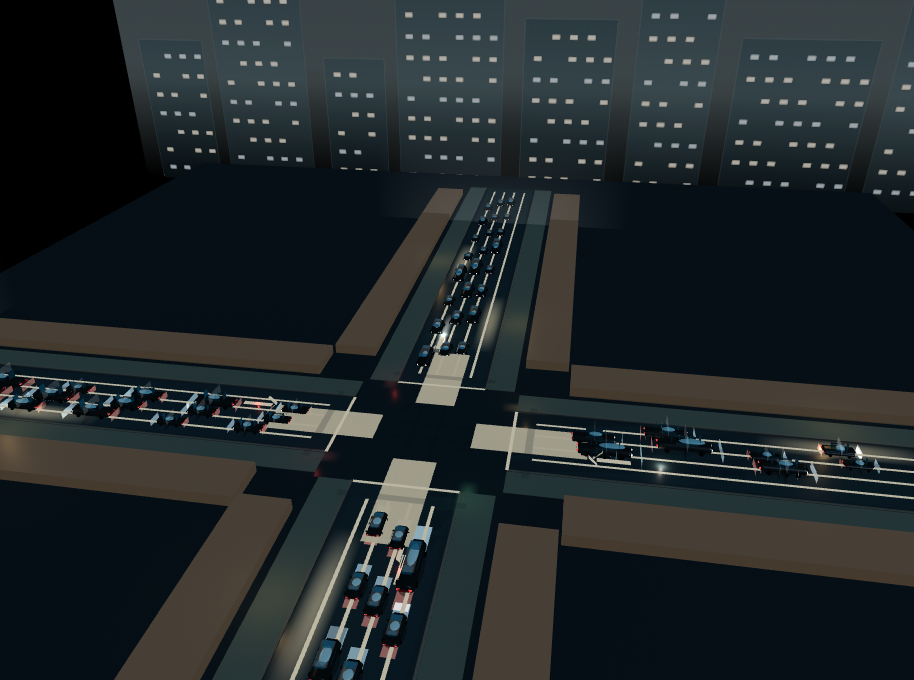
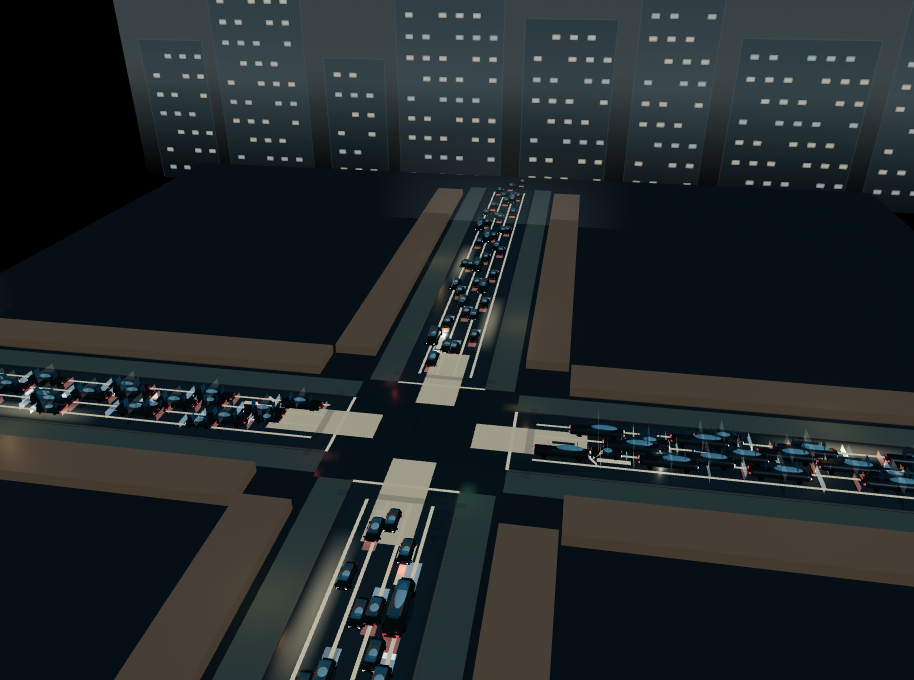
feat(web): wire simulation frame into r3f viewport

diff --git a/apps/web/components/DashboardShell.test.tsx b/apps/web/components/DashboardShell.test.tsx
@@ -15,6 +15,20 @@ const r3fCameraMock = vi.hoisted(() => ({
   far: 0
 }));
 const r3fInvalidateMock = vi.hoisted(() => vi.fn());
+const dashboardRouteApiMock = vi.hoisted(() => ({
+  analyzeUpload: vi.fn(),
+  askQuestion: vi.fn(),
+  generateReport: vi.fn(),
+  getAnalysisJob: vi.fn(),
+  getEvents: vi.fn(),
+  getFixtures: vi.fn(),
+  getIntersectionStatus: vi.fn(),
+  getRuntimeReadiness: vi.fn(),
+  getSimulationFrame: vi.fn(),
+  ingestFixture: vi.fn(),
+  recommendSignal: vi.fn(),
+  simulateSignal: vi.fn()
+}));
 
 vi.mock("@react-three/fiber", () => ({
   Canvas: ({ children }: { children?: ReactNode }) => (
@@ -56,7 +70,9 @@ vi.mock("./r3f/TrafficDensityLayer", async (importActual) => {
 vi.mock("./r3f/WeatherAndAtmosphere", () => ({
   WeatherAndAtmosphere: () => null
 }));
+vi.mock("../lib/api", () => dashboardRouteApiMock);
 
+import { DashboardRoute } from "./DashboardRoute";
 import { DashboardShell } from "./DashboardShell";
 import {
   buildFixtureSceneSnapshot,
@@ -332,6 +348,7 @@ const runtimeReadiness: RuntimeReadiness = {
 
 afterEach(() => {
   cleanup();
+  vi.clearAllMocks();
   vi.restoreAllMocks();
   vi.unstubAllGlobals();
   vi.unstubAllEnvs();
@@ -346,6 +363,7 @@ function dashboardProps(overrides: Partial<Parameters<typeof DashboardShell>[0]>
     report,
     chat,
     runtimeReadiness,
+    simulationFrame: frameSnapshot,
     onAskQuestion: vi.fn(),
     onGenerateReport: vi.fn(),
     onRefreshRecommendation: vi.fn(),
@@ -389,7 +407,50 @@ function mockWebGLSupport(supported: boolean) {
   );
 }
 
+function mockDashboardRouteApi() {
+  dashboardRouteApiMock.getIntersectionStatus.mockResolvedValue(status);
+  dashboardRouteApiMock.getEvents.mockResolvedValue(events);
+  dashboardRouteApiMock.recommendSignal.mockResolvedValue(recommendation);
+  dashboardRouteApiMock.simulateSignal.mockResolvedValue(simulation);
+  dashboardRouteApiMock.generateReport.mockResolvedValue(report);
+  dashboardRouteApiMock.getFixtures.mockResolvedValue(fixtures);
+  dashboardRouteApiMock.getRuntimeReadiness.mockResolvedValue(runtimeReadiness);
+  dashboardRouteApiMock.getSimulationFrame.mockResolvedValue(frameSnapshot);
+}
+
 describe("DashboardShell", () => {
+  test("loads the dashboard with explicit fixture fallback when the frame route is missing", async () => {
+    vi.stubEnv("NEXT_PUBLIC_R3F_SIMULATION_ENABLED", "true");
+    mockWebGLSupport(true);
+    mockDashboardRouteApi();
+    dashboardRouteApiMock.getSimulationFrame.mockRejectedValue(
+      new Error("API request failed: 404 /api/simulation/frame?scenario_id=emergency")
+    );
+
+    render(<DashboardRoute />);
+
+    const viewport = await screen.findByTestId("r3f-simulation-viewport");
+
+    expect(dashboardRouteApiMock.getSimulationFrame).toHaveBeenCalledWith("emergency");
+    expect(screen.queryByText("Dashboard API unavailable")).toBeNull();
+    expect(viewport.getAttribute("data-r3f-snapshot-source")).toBe("simulation_snapshot_fixture");
+    expect(viewport.getAttribute("data-r3f-frame-bound")).toBeNull();
+    expect(viewport.getAttribute("data-r3f-traffic-density-mode")).toBe("fixture_queues");
+  });
+
+  test("surfaces non-route simulation frame load errors", async () => {
+    mockDashboardRouteApi();
+    dashboardRouteApiMock.getSimulationFrame.mockRejectedValue(
+      new Error("API request failed: 500 /api/simulation/frame?scenario_id=emergency")
+    );
+
+    render(<DashboardRoute />);
+
+    expect(await screen.findByText("Dashboard API unavailable")).toBeTruthy();
+    expect(dashboardRouteApiMock.getSimulationFrame).toHaveBeenCalledWith("emergency");
+    expect(screen.getByText("API request failed: 500 /api/simulation/frame?scenario_id=emergency")).toBeTruthy();
+  });
+
   test("renders the B plus A spatial command cockpit structure", () => {
     const { container } = renderDashboard({ selectedScenarioId: "emergency" });
 
@@ -985,7 +1046,7 @@ describe("DashboardShell", () => {
     });
   });
 
-  test("mounts the browser-only R3F renderer when it is enabled and WebGL is supported", async () => {
+  test("mounts frame-backed browser-only R3F when it is enabled and WebGL is supported", async () => {
     vi.stubEnv("NEXT_PUBLIC_R3F_SIMULATION_ENABLED", "true");
     mockWebGLSupport(true);
 
@@ -1002,13 +1063,30 @@ describe("DashboardShell", () => {
     expect(viewport.getAttribute("data-r3f-renderer-mode")).toBe(STAGE5_RENDERER_MODE);
     expect(viewport.getAttribute("data-r3f-photoreal-stage")).toBe("5");
     expect(viewport.getAttribute("data-r3f-snapshot-source")).toBe("simulation_snapshot_fixture");
+    expect(viewport.getAttribute("data-r3f-frame-bound")).toBe("true");
+    expect(viewport.getAttribute("data-r3f-traffic-density-mode")).toBe("density_segments");
+    expect(
+      Number(viewport.getAttribute("data-r3f-visible-vehicle-count"))
+    ).toBeGreaterThan(0);
+    expect(viewport.getAttribute("data-r3f-glb-vehicle-count")).toBe("2");
+    expect(viewport.getAttribute("data-r3f-street-shadow-count")).toBe("2");
+    expect(viewport.getAttribute("data-r3f-vehicle-silhouette-part-count")).toBe("14");
+  });
+
+  test("uses explicit fixture queue fallback when the simulation frame is absent", async () => {
+    vi.stubEnv("NEXT_PUBLIC_R3F_SIMULATION_ENABLED", "true");
+    mockWebGLSupport(true);
+
+    renderDashboard({ simulationFrame: null });
+
+    const viewport = await screen.findByTestId("r3f-simulation-viewport");
+
+    expect(viewport.getAttribute("data-r3f-snapshot-source")).toBe("simulation_snapshot_fixture");
+    expect(viewport.getAttribute("data-r3f-frame-bound")).toBeNull();
     expect(viewport.getAttribute("data-r3f-traffic-density-mode")).toBe("fixture_queues");
     expect(
       Number(viewport.getAttribute("data-r3f-visible-vehicle-count"))
     ).toBeGreaterThanOrEqual(STAGE5_MIN_VISIBLE_VEHICLES);
-    expect(viewport.getAttribute("data-r3f-glb-vehicle-count")).toBe("2");
-    expect(viewport.getAttribute("data-r3f-street-shadow-count")).toBe("2");
-    expect(viewport.getAttribute("data-r3f-vehicle-silhouette-part-count")).toBe("14");
   });
 
   test("exposes Stage 3 corridor lengths in meters outside the canvas", async () => {

diff --git a/apps/web/components/DashboardRoute.tsx b/apps/web/components/DashboardRoute.tsx
@@ -12,10 +12,12 @@ import {
   getFixtures,
   getIntersectionStatus,
   getRuntimeReadiness,
+  getSimulationFrame,
   ingestFixture,
   recommendSignal,
   simulateSignal
 } from "../lib/api";
+import type { SimulationFrameSnapshot } from "../lib/simulationSnapshot";
 import type {
   AnalysisFixture,
   AnalysisJob,
@@ -41,6 +43,7 @@ type DashboardData = {
   events: TrafficEvent[];
   recommendation: Recommendation;
   simulation: SimulationComparison;
+  simulationFrame: SimulationFrameSnapshot | null;
   report: Report;
   chat: ChatResponse | null;
   fixtures: AnalysisFixture[];
@@ -63,7 +66,16 @@ export function DashboardRoute() {
 
   async function loadDashboard(scenarioId: ScenarioId) {
     try {
-      const [status, events, recommendation, simulation, report, fixtures, runtimeReadiness] =
+      const [
+        status,
+        events,
+        recommendation,
+        simulation,
+        report,
+        fixtures,
+        runtimeReadiness,
+        simulationFrame
+      ] =
         await Promise.all([
           getIntersectionStatus(scenarioId),
           getEvents(scenarioId),
@@ -71,7 +83,8 @@ export function DashboardRoute() {
           simulateSignal(scenarioId),
           generateReport(scenarioId),
           getFixtures(),
-          getRuntimeReadiness()
+          getRuntimeReadiness(),
+          loadSimulationFrame(scenarioId)
         ]);
 
       setData({
@@ -79,6 +92,7 @@ export function DashboardRoute() {
         events,
         recommendation,
         simulation,
+        simulationFrame,
         report,
         chat: null,
         fixtures,
@@ -183,6 +197,7 @@ export function DashboardRoute() {
       events={data.events}
       recommendation={data.recommendation}
       simulation={data.simulation}
+      simulationFrame={data.simulationFrame}
       report={data.report}
       chat={data.chat}
       fixtures={data.fixtures}
@@ -216,4 +231,22 @@ function formatDashboardError(error: string) {
     return "The API server is not reachable. Start the API service and try again.";
   }
   return error;
+}
+
+async function loadSimulationFrame(
+  scenarioId: ScenarioId
+): Promise<SimulationFrameSnapshot | null> {
+  try {
+    return await getSimulationFrame(scenarioId);
+  } catch (error) {
+    if (isSimulationFrameRouteMissingError(error)) return null;
+    throw error;
+  }
+}
+
+function isSimulationFrameRouteMissingError(error: unknown) {
+  return (
+    error instanceof Error &&
+    error.message.includes("API request failed: 404 /api/simulation/frame")
+  );
 }

diff --git a/apps/web/components/r3f/R3FSimulationViewport.tsx b/apps/web/components/r3f/R3FSimulationViewport.tsx
@@ -3,7 +3,7 @@
 import { useMemo } from "react";
 
 import type { SimulationViewportProps } from "../SimulationViewportFallback";
-import { buildFixtureSceneSnapshot } from "./buildSceneSnapshot";
+import { buildFixtureSceneSnapshot, buildSceneSnapshot } from "./buildSceneSnapshot";
 import { getCorridorLengthDataAttribute } from "./roadGeometry";
 import { SimulationCanvas } from "./SimulationCanvas";
 import {
@@ -20,12 +20,19 @@ export const STAGE5_RENDERER_MODE = "r3f_photoreal_stage5";
 export function R3FSimulationViewport({
   status,
   events,
-  simulation
+  simulation,
+  simulationFrame
 }: SimulationViewportProps) {
-  const sceneSnapshot = useMemo(
+  const frameSceneSnapshot = useMemo(
+    () => buildSceneSnapshot(simulationFrame),
+    [simulationFrame]
+  );
+  const fallbackSceneSnapshot = useMemo(
     () => buildFixtureSceneSnapshot({ queues: status.queues, events }),
     [events, status.queues]
   );
+  const frameBound = frameSceneSnapshot.source !== null;
+  const sceneSnapshot = frameBound ? frameSceneSnapshot : fallbackSceneSnapshot;
   const visibleVehicleCount = useMemo(() => {
     const renderPlan = buildTrafficDensityRenderPlan(sceneSnapshot);
 
@@ -41,6 +48,7 @@ export function R3FSimulationViewport({
       data-testid="r3f-simulation-viewport"
       data-r3f-simulation-ready="true"
       data-r3f-snapshot-source={sceneSnapshot.source ?? "none"}
+      data-r3f-frame-bound={frameBound ? "true" : undefined}
       data-r3f-renderer-mode={STAGE5_RENDERER_MODE}
       data-r3f-photoreal-stage="5"
       data-r3f-corridor-length-meters={corridorLengthMeters}

diff --git a/apps/web/components/DigitalTwin.tsx b/apps/web/components/DigitalTwin.tsx
@@ -3,6 +3,7 @@
 import { useState } from "react";
 
 import type { TrafficEvent, IntersectionStatus, RuntimeReadiness, SimulationComparison } from "../lib/types";
+import type { SimulationFrameSnapshot } from "../lib/simulationSnapshot";
 import type { Locale } from "../lib/i18n";
 import { copy } from "../lib/i18n";
 import { SimulationViewport } from "./SimulationViewport";
@@ -11,6 +12,7 @@ type DigitalTwinProps = {
   status: IntersectionStatus;
   events: TrafficEvent[];
   simulation: SimulationComparison;
+  simulationFrame: SimulationFrameSnapshot | null;
   runtimeReadiness: RuntimeReadiness;
   locale: Locale;
   onRunSimulation: () => Promise<void>;
@@ -20,6 +22,7 @@ export function DigitalTwin({
   status,
   events,
   simulation,
+  simulationFrame,
   runtimeReadiness,
   locale,
   onRunSimulation
@@ -78,6 +81,7 @@ export function DigitalTwin({
         status={status}
         events={events}
         simulation={simulation}
+        simulationFrame={simulationFrame}
         runtimeReadiness={runtimeReadiness}
         locale={locale}
       />

diff --git a/apps/web/components/DashboardShell.tsx b/apps/web/components/DashboardShell.tsx
@@ -21,6 +21,7 @@ import type {
   TrafficEvent,
   UploadAnalysisResult
 } from "../lib/types";
+import type { SimulationFrameSnapshot } from "../lib/simulationSnapshot";
 import type { Locale } from "../lib/i18n";
 import { copy } from "../lib/i18n";
 import { AnalysisIntakePanel } from "./AnalysisIntakePanel";
@@ -36,6 +37,7 @@ export type DashboardShellProps = {
   events: TrafficEvent[];
   recommendation: Recommendation;
   simulation: SimulationComparison;
+  simulationFrame: SimulationFrameSnapshot | null;
   report: Report;
   chat: ChatResponse | null;
   fixtures: AnalysisFixture[];
@@ -63,6 +65,7 @@ export function DashboardShell({
   events,
   recommendation,
   simulation,
+  simulationFrame,
   report,
   chat,
   fixtures,
@@ -320,6 +323,7 @@ export function DashboardShell({
             status={status}
             events={events}
             simulation={simulation}
+            simulationFrame={simulationFrame}
             runtimeReadiness={runtimeReadiness}
             locale={locale}
             onRunSimulation={onRunSimulation}

diff --git a/apps/web/components/SimulationViewportFallback.tsx b/apps/web/components/SimulationViewportFallback.tsx
@@ -10,6 +10,7 @@ import type {
   SimulationComparison,
   TrafficEvent
 } from "../lib/types";
+import type { SimulationFrameSnapshot } from "../lib/simulationSnapshot";
 import type { Locale } from "../lib/i18n";
 import { copy, formatDirection, formatEventType } from "../lib/i18n";
 
@@ -17,6 +18,7 @@ export type SimulationViewportProps = {
   status: IntersectionStatus;
   events: TrafficEvent[];
   simulation: SimulationComparison;
+  simulationFrame?: SimulationFrameSnapshot | null;
   runtimeReadiness: RuntimeReadiness;
   locale: Locale;
 };

diff --git a/docs/superpowers/plans/2026-06-16-r3f-photoreal-dashboard-simulation.md b/docs/superpowers/plans/2026-06-16-r3f-photoreal-dashboard-simulation.md
@@ -1343,7 +1343,7 @@ Expected: `git diff --check` passes and the `rg` command returns no stale Stage 
 
 ## Stage 6E: Asset Runtime Utilization, Compression, And Licensing
 
-**Goal:** Use more of the existing manifest-backed asset kit in the runtime scene, optimize payloads, and consolidate asset licensing evidence.
+**Goal:** Use more of the existing manifest-backed asset kit in the runtime scene, harden the human-view visual baseline beyond the current blockout-like canvas, optimize payloads, and consolidate asset licensing evidence.
 
 **Files:**
 - Modify: `apps/web/components/r3f/Stage5SceneAssets.tsx`
@@ -1369,6 +1369,21 @@ all existing facade/window material panels
 ```
 
 If an asset family is not present in `manifest.json`, record that absence in the implementation notes instead of inventing a placeholder.
+
+- [ ] **Step 1A: Harden runtime visual proof against the Stage 5 baseline**
+
+Use the committed Stage 5 browser canvas artifacts as the before baseline, then improve the runtime scene so the accepted Stage 6E canvas no longer reads as a flat blockout to a human reviewer. The pass must visibly reduce:
+
+```text
+flat untextured building slabs
+flat road/sidewalk surfaces without believable wet PBR response
+toy-like repeated traffic silhouettes in foreground or operator-relevant lanes
+empty city-depth areas that make the intersection feel like a model set
+```
+
+Prefer manifest-backed GLB assets, existing texture/decal assets, material tuning, lighting/weather tuning, and richer facade/window panels already in the repo. Do not invent traffic truth or add fake precise vehicles; density still comes from `SimulationFrameSnapshot.density_segments` or labeled fixture fallback. Runtime proof must come from fresh browser screenshots, not Image Gen reference images or metadata alone.
+
+The Stage 6E verifier/review gate must compare current screenshots against the Stage 5 baseline and fail if the runtime canvas is not materially more realistic to a human reviewer, even when numeric photorealism metrics pass.
 
 - [ ] **Step 2: Add manifest-driven preload and tiering**
 
@@ -1428,11 +1443,12 @@ Run:
 npm --workspace apps/web exec gltf-transform -- --version
 node scripts/optimize-r3f-assets.mjs --check
 node scripts/verify-r3f-assets.mjs
+node scripts/verify-r3f-dashboard.mjs
 npm run build:web
 git diff --check
 ```
 
-Expected: optimization check, asset verifier, web build, and diff check pass without external downloads.
+Expected: optimization check, asset verifier, dashboard browser proof, web build, and diff check pass without external downloads. Desktop/mobile canvas artifacts show materially improved runtime realism versus the committed Stage 5 baseline, not merely denser traffic or passing metadata.
 
 ## Stage 6F: Operations, Telemetry, Security, Artifact Hygiene, And Release Discipline
 
